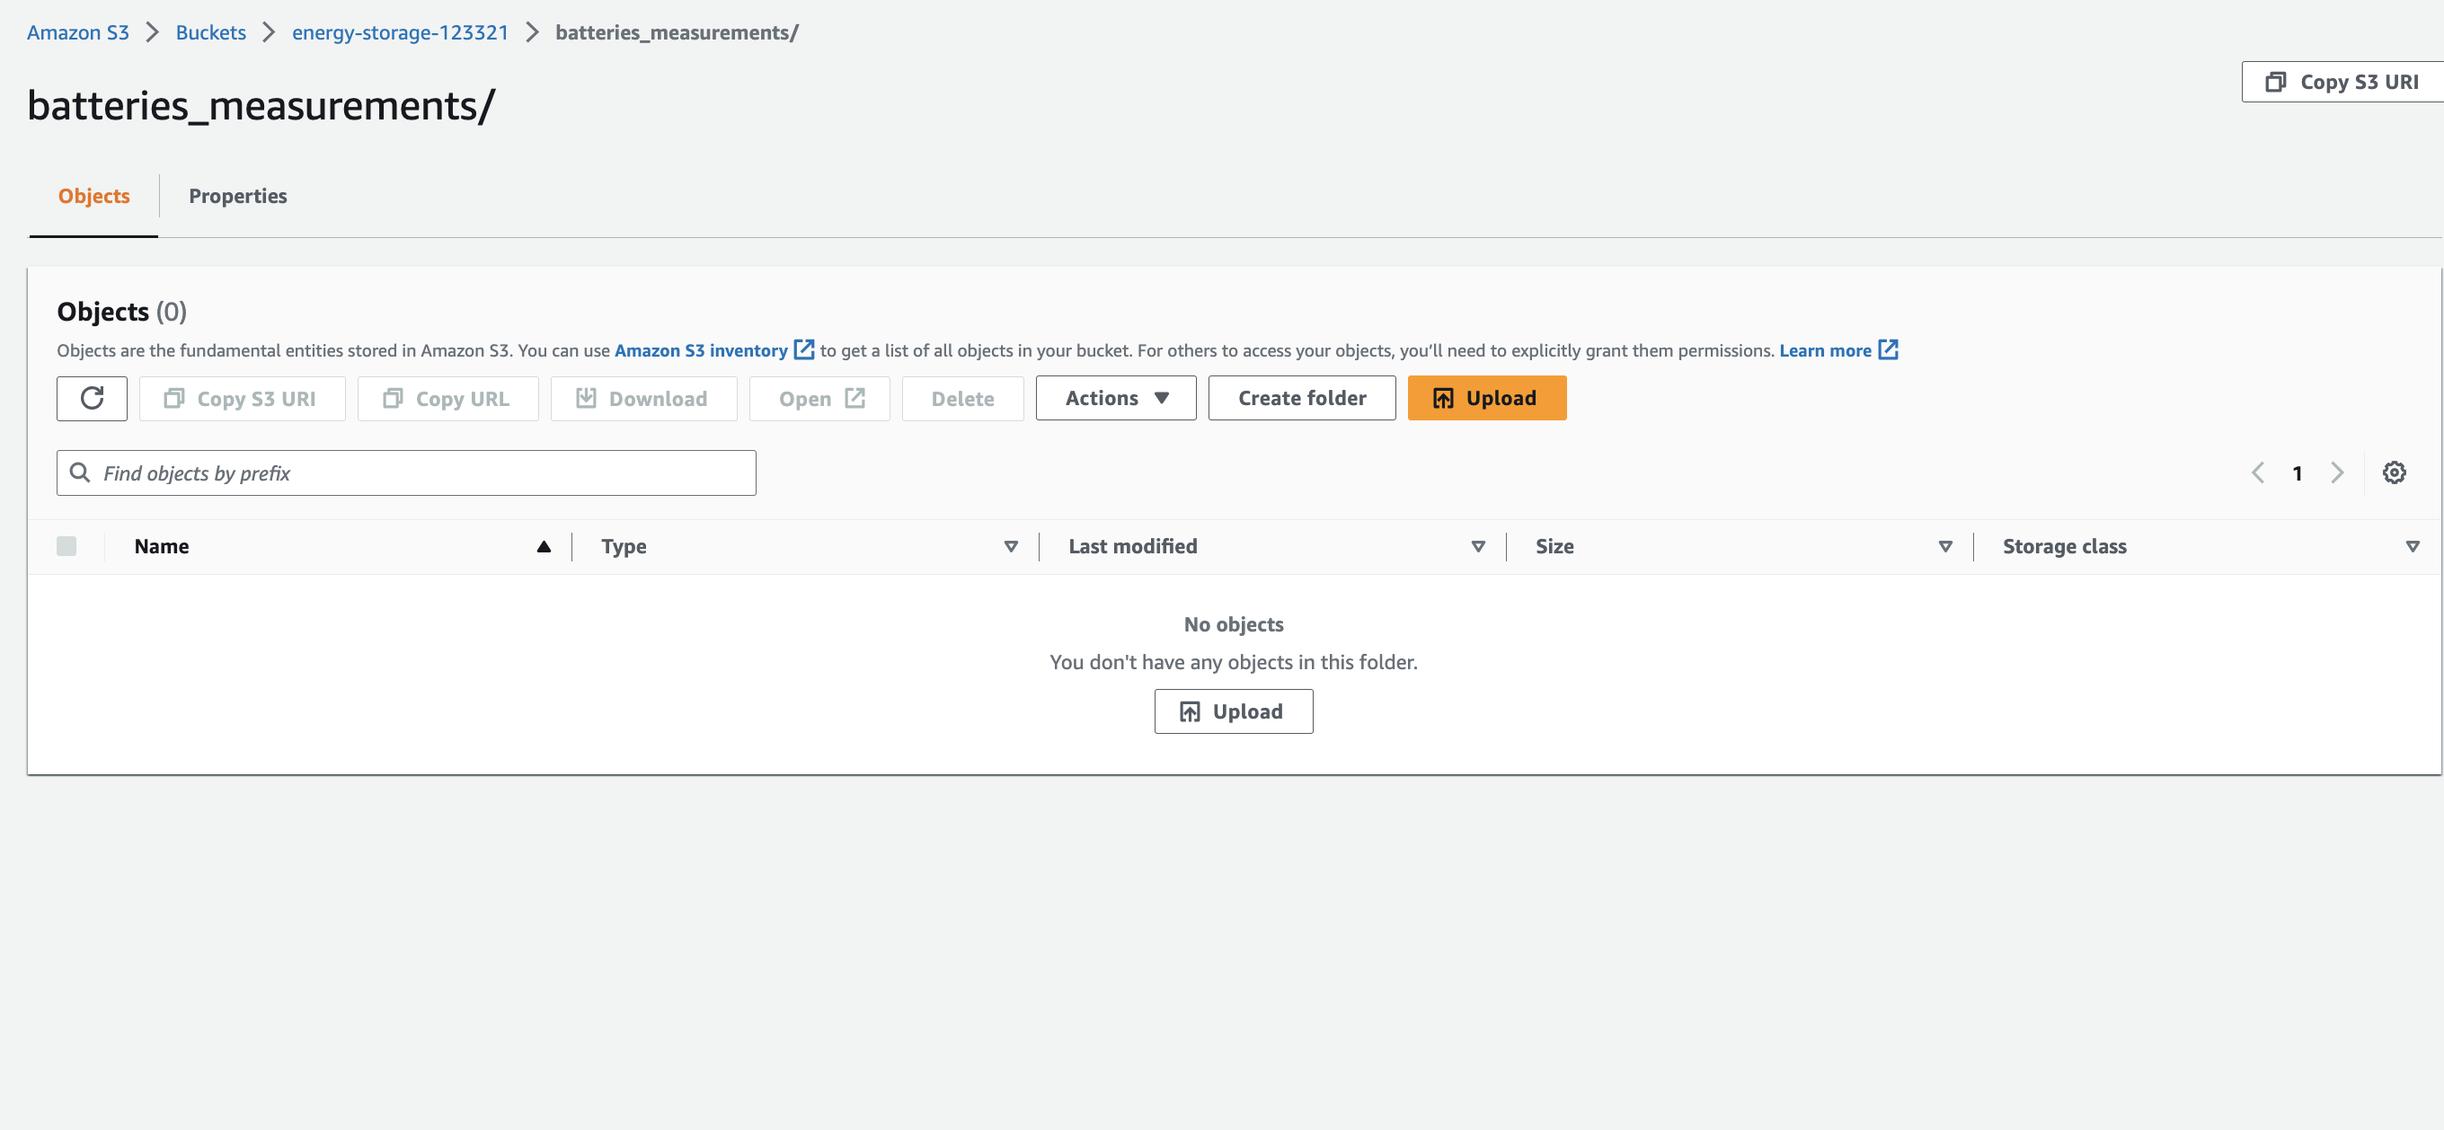
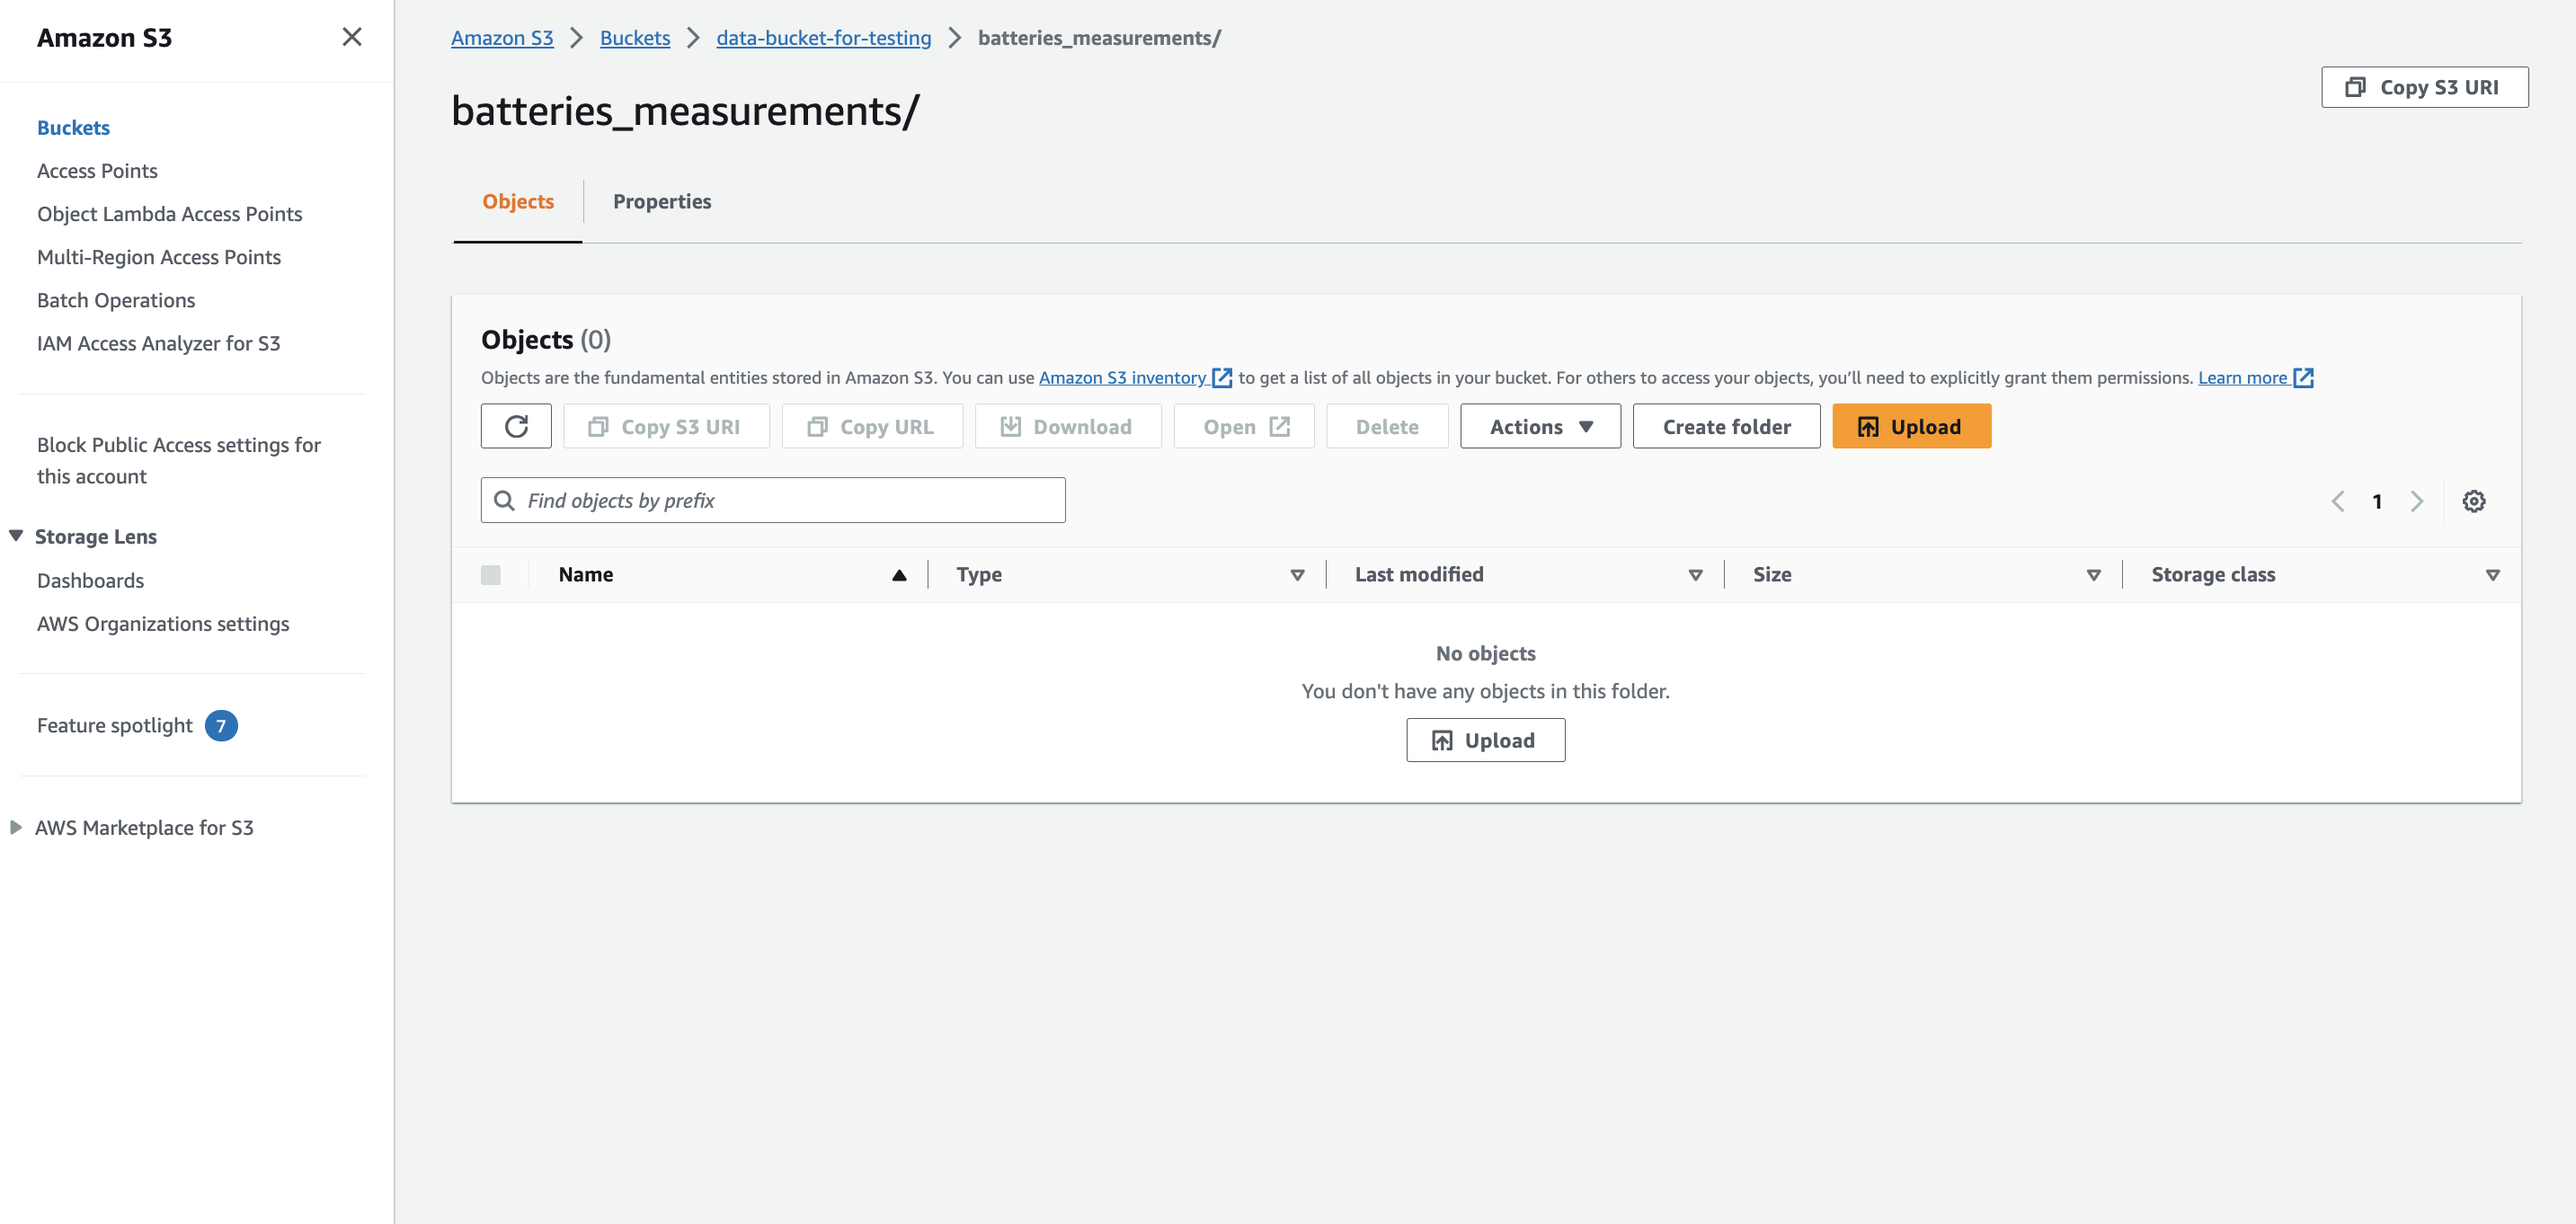
change in README.md

diff --git a/README.md b/README.md
@@ -44,7 +44,7 @@ Actual data will flow from various sources, including batteries, wind turbine, s
 | us-east-1 |US East (N. Virginia)| [![cloudformation-launch-stack](image/architecture/cloudformation-launch-stack.png)](https://console.aws.amazon.com/cloudformation/home?region=us-east-1#/stacks/new?stackName=Energy-Storage&templateURL=https://testinng-stack-111.s3.ap-south-1.amazonaws.com/00-main.yaml) |
 | us-east-2 |US East (Ohio)| [![cloudformation-launch-stack](image/architecture/cloudformation-launch-stack.png)](https://console.aws.amazon.com/cloudformation/home?region=us-east-2#/stacks/new?stackName=Energy-Storage&templateURL=https://testinng-stack-111.s3.ap-south-1.amazonaws.com/00-main.yaml) |
 | us-west-2 |US West (Oregon)| [![cloudformation-launch-stack](image/architecture/cloudformation-launch-stack.png)](https://console.aws.amazon.com/cloudformation/home?region=us-west-2#/stacks/new?stackName=Energy-Storage&templateURL=https://testinng-stack-111.s3.ap-south-1.amazonaws.com/00-main.yaml) |
-| ap-southeast-1 |AP (Singapore)| [![cloudformation-launch-stack](image/architecture/cloudformation-launch-stack.png)](https://console.aws.amazon.com/cloudformation/home?region=ap-southeast-1#/stacks/new?stackName=Energy-Storage&templateURL=https://testinng-stack-111.s3.ap-south-.amazonaws.com/00-main1.yaml) |
+| ap-southeast-1 |AP (Singapore)| [![cloudformation-launch-stack](image/architecture/cloudformation-launch-stack.png)](https://console.aws.amazon.com/cloudformation/home?region=ap-southeast-1#/stacks/new?stackName=Energy-Storage&templateURL=https://testinng-stack-111.s3.ap-south-.amazonaws.com/00-main.yaml) |
 
 
 **1. From Cloudformation Service in AWS**
@@ -141,9 +141,8 @@ Actual data will flow from various sources, including batteries, wind turbine, s
 
   ![Fig 72](image/OpenSearch/21.png)
 
-  ![Fig 72](image/OpenSearch/22.png)
 
-  - **Now map the fireshose backend role to OpenSearch**
+  - **Now we will map the fireshose backend role to OpenSearch**
 
  **i.**  Go to side panel and click on **Security**
 
@@ -159,7 +158,7 @@ Actual data will flow from various sources, including batteries, wind turbine, s
 
  ![Fig 75](image/OpenSearch/8.png)
 
-**v.** Now in another tab navigate for Firehose, to get the **Firehose role arn**. Open first Firehose with name estorage-batteries-measurements-openSearch.
+**v.** Now in another tab navigate for Firehose, to get the **Firehose role arn**. Open first Firehose with name **estorage-batteries-measurements-openSearch**.
 
   ![Fig 76](image/OpenSearch/17.png)
 

diff --git a/docs/README_TESTING.md b/docs/README_TESTING.md
@@ -22,7 +22,7 @@ Step-2. Click on **Create bucket**
 
   ![Fig 5](../image/TestS3Bucket/1.png)
 
-Step-3. Provide name for bucket.  
+Step-3. Provide name for bucket. (Bucket name must be globally unique and contain only lowercase) 
 
   ![Fig 5](../image/TestS3Bucket/2.png) 
 
@@ -32,9 +32,11 @@ Step-4. Scroll down and click on **Create bucket**
 
 **2.** Now create four folders inside this with name **betteries_info**, **batteries_measurements**, **renewable-plants-info** and **feeders-info**
 
-  - Now click on the bucket to open it. click on **create folder** button and give the name as **betteries_info** and click on **create folder**.
+  - Now click on the bucket to open it. Click on **create folder** button. 
   
   ![Fig 5](../image/TestS3Bucket/4.png)
+
+  - provide the folder name as **betteries_info** and click on **create folder**.
 
   ![Fig 6](../image/TestS3Bucket/5.png)
 
@@ -44,7 +46,7 @@ Step-4. Scroll down and click on **Create bucket**
 
   - After creating folder, upload the given ***.csv*** file to the respective folder. To get the csv file go to **energy-storage** folder. 
 
-  - Go to **S3 data** folder to find **.csv** file for all four folders with the same name as folder name. Download all four csv file.
+  - Go to **S3 data** folder inside **energy-storage** to find **.csv** file for all four folders with the same name as folder name. Download all four csv file.
 
 **3.** Upload files in respective folder
 
